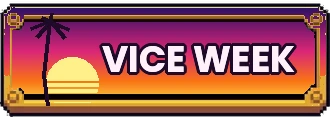
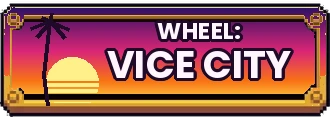
Wheel: Vice City (event renamed) + temp button plate
Claude-Session: https://claude.ai/code/session_01JjVzf52scR2Hecsso6dYfx

Changed region(s): [[0.303, 0.1538, 0.9091, 0.7179]]

diff --git a/wheel.html b/wheel.html
@@ -784,7 +784,7 @@
             <button id="toyBtn" title="Show / hide your toys (bottom-right corner)" style="display:none" class="plate-btn cursor-pointer"><img class="plate-img" data-plate="TOYS" alt="Toys"><span id="toyLbl" class="plate-count" style="display:none"></span></button>
             <button id="partyBtn" title="Party mode" class="plate-btn cursor-pointer"><img class="plate-img" data-plate="PARTY" alt="Party"><img id="partyHatImg" alt="" hidden></button>
             <button id="tsukBtn" class="plate-btn cursor-pointer" title="TsukBlock (ad blocker)" aria-label="TsukBlock"><img class="plate-img" data-plate="TSUK" src="media/plate_tsuk2.webp" alt="TsukBlock"></button>
-            <button id="viceBtn" title="Vice Week" class="plate-btn cursor-pointer" style="display:none"><img class="plate-img" src="media/plate_vice.webp" alt="Vice Week"><span class="plate-tag"></span></button>
+            <button id="viceBtn" title="Wheel: Vice City" class="plate-btn cursor-pointer" style="display:none"><img class="plate-img" src="media/plate_vice.webp" alt="Wheel: Vice City"><span class="plate-tag"></span></button>
             <button id="foreverBtn" title="WoW Forever is out" class="plate-btn cursor-pointer" style="display:none"><img class="plate-img" data-plate="FOREVER" alt="Forever"><span class="plate-tag"></span></button>
         </div>
     </header>
@@ -969,7 +969,7 @@
                 <div class="text-xs font-bold uppercase tracking-wider text-slate-400 mb-2">📰 Patch notes</div>
                 <button id="updateReopen" class="px-3 py-1.5 rounded bg-amber-700 hover:bg-amber-600 text-white text-xs font-bold cursor-pointer">See what's new</button>
                 <a href="./" class="ml-2 text-xs text-amber-300 underline" title="It's all connected"><img src="media/board_icon.png" alt="" style="display:inline-block;height:1.15em;width:auto;vertical-align:-.25em;margin-right:.25em;border-radius:2px">The Board</a>
-                <span id="buildStamp" class="ml-2 text-xs text-slate-500" title="If this is old, press Ctrl+F5">Version: Nov 18, 1:32 PM CT</span>
+                <span id="buildStamp" class="ml-2 text-xs text-slate-500" title="If this is old, press Ctrl+F5">Version: Nov 18, 1:36 PM CT</span>
             </div>
             <div class="mt-5 pt-4 border-t border-slate-800 text-xs font-bold uppercase tracking-wider text-slate-400 mb-2">🔤 Font</div>
             <div id="fontPicks" class="grid grid-cols-2 sm:grid-cols-3 gap-2"><button type="button" class="font-pick" data-font="pixel"><b class="fp-name">Pixel Goblin</b><span class="fp-sample">KEVIN · Spin Again</span><span class="fp-sub">Pixelify Sans + Atkinson Hyperlegible</span></button><button type="button" class="font-pick" data-font="silk"><b class="fp-name">Arcade Caps</b><span class="fp-sample">KEVIN · Spin Again</span><span class="fp-sub">Silkscreen + Nunito Sans</span></button><button type="button" class="font-pick" data-font="pirata"><b class="fp-name">Pirate Gothic</b><span class="fp-sample">KEVIN · Spin Again</span><span class="fp-sub">Pirata One + Barlow</span></button><button type="button" class="font-pick" data-font="germania"><b class="fp-name">Iron Fraktur</b><span class="fp-sample">KEVIN · Spin Again</span><span class="fp-sub">Germania One + Barlow</span></button><button type="button" class="font-pick" data-font="tiny"><b class="fp-name">Tiny Pixel</b><span class="fp-sample">KEVIN · Spin Again</span><span class="fp-sub">Tiny5 + Atkinson Hyperlegible</span></button><button type="button" class="font-pick" data-font="jersey"><b class="fp-name">Arcade Cabinet</b><span class="fp-sample">KEVIN · Spin Again</span><span class="fp-sub">Jersey 15 + Atkinson Hyperlegible</span></button></div>
@@ -4964,9 +4964,9 @@
         { id: 'axacam5',    name: 'Caught on Camera',         desc: 'Catch Axazon hiding in 5 different places.' },
         { id: 'gregpet',    name: 'Heavy Machinery Not Included', desc: 'Win Greg from the claw machine.', secret: true, secretName: true },
         { id: 'cartridge',  name: 'The Collector',            desc: 'Find the one Wheeltari cartridge that actually works, and play it in the VIP room.', secret: true, secretName: true },
-        { id: 'viceweek',   name: 'Welcome to Vice',          desc: 'Go to Vice Week (the new GTA\'s launch week, Nov 19-25).', secret: true },
-        { id: 'vicebusted', name: 'BUSTED',                   desc: 'Hit 5 stars during Vice Week and get caught by ChAoTiC.', secret: true },
-        { id: 'vicewasted', name: 'WASTED',                   desc: 'Get WASTED during Vice Week. It just happens sometimes.', secret: true }
+        { id: 'viceweek',   name: 'Welcome to Vice',          desc: 'Go to Wheel: Vice City (the new GTA\'s launch week, Nov 19-25).', secret: true },
+        { id: 'vicebusted', name: 'BUSTED',                   desc: 'Hit 5 stars during Wheel: Vice City and get caught by ChAoTiC.', secret: true },
+        { id: 'vicewasted', name: 'WASTED',                   desc: 'Get WASTED during Wheel: Vice City. It just happens sometimes.', secret: true }
     ];
     const PURPLE_HEART_SVG = '<svg viewBox="0 0 64 80" width="44" height="55" aria-hidden="true"><path d="M20 0h24v22H20z" fill="#7e22ce"/><path d="M20 0h4v22h-4zM40 0h4v22h-4z" fill="#f5f5f4"/><path d="M28 0h8v22h-8z" fill="#a855f7"/><path d="M32 74 C10 58 4 46 4 36 C4 26 12 20 20 20 C26 20 30 24 32 28 C34 24 38 20 44 20 C52 20 60 26 60 36 C60 46 54 58 32 74Z" fill="#facc15" stroke="#a16207" stroke-width="2"/><path d="M32 68 C14 55 10 45 10 37 C10 30 15 26 21 26 C26 26 29 29 32 33 C35 29 38 26 43 26 C49 26 54 30 54 37 C54 45 50 55 32 68Z" fill="#7e22ce"/><ellipse cx="32" cy="45" rx="7" ry="9" fill="#fde68a" opacity=".9"/></svg>';
     let achQueue = [], achShowing = false;
@@ -6054,7 +6054,7 @@ const PHOTO_ICO_TEXTSIZE = "media/photo_ico_textsize.png?v=ee06b30a";
     (function buildCheatEvents() {   // the newer gags, on demand (nothing here pays out gold)
         const EV = [['🐸 Murloc raid', () => murlocRaid()], ['🏐 Murloc spears Volley', () => murlocSkewer()], ['🧊 Iceberg', () => yachtIceberg(true)], ['🗡 Stray glaive', () => strayGlaive(true)],
             ['🛸 Chicken abduction', () => chickenAbduct(true)], ['🐔 Roadkill', () => chickenRoadkill(true)],
-            ['🦺 OSHA incident', () => oshaEvent()], ['🌵 Cartel abduction', () => cartelAbduction()], ['⏳ WoW Forever', () => toggleForever()], ['🌴 Vice Week', () => toggleVice(true)], ['🚔 Vice: BUSTED', () => viceCard('busted')], ['💀 Vice: WASTED', () => viceCard('wasted')],
+            ['🦺 OSHA incident', () => oshaEvent()], ['🌵 Cartel abduction', () => cartelAbduction()], ['⏳ WoW Forever', () => toggleForever()], ['🌴 Wheel: Vice City', () => toggleVice(true)], ['🚔 Vice: BUSTED', () => viceCard('busted')], ['💀 Vice: WASTED', () => viceCard('wasted')],
             ['🏪 8/11 opening', () => { store.set('painWheel811Welcomed', false); welcome811(); }],
             ['🏷 Emporium opening', () => { store.set('painWheelEmporiumOpen', true); store.set('painWheelEmporiumWelcomed', false); welcomeEmporium(); }],
             ['🎂 Clippy birthday', () => { const d = Date; window.Date = class extends d { constructor(...a) { return a.length ? new d(...a) : new d(new d().getFullYear(), 10, 19, 12); } static now() { return d.now(); } }; store.set('painWheelClippyBday', ''); try { clippyBirthday(); } finally { window.Date = d; } }],
@@ -6479,11 +6479,11 @@ const PHOTO_ICO_TEXTSIZE = "media/photo_ico_textsize.png?v=ee06b30a";
     var VICE_SLICE = [   // neon sunset: dark purple at the hub, hot color at the rim
         [[0, '#1e0b2e'], [0.55, '#9d174d'], [1, '#ec4899']], [[0, '#1e0b2e'], [0.55, '#9a3412'], [1, '#fb923c']], [[0, '#0b1e2e'], [0.55, '#0f766e'], [1, '#2dd4bf']],
         [[0, '#1e0b2e'], [0.55, '#6b21a8'], [1, '#c084fc']], [[0, '#1e0b2e'], [0.55, '#be185d'], [1, '#fda4af']], [[0, '#1e0b2e'], [0.55, '#a16207'], [1, '#facc15']]];
-    const VICE_THEME = { id: 'vice', name: 'Vice Week 🌴', when: () => false, bg: '#14081f', palm: true, sunsetSlices: true, bgSize: 'cover', logo: 'media/vice_logo.webp',   // background: Ada's Vice painting, dimmed so the panels stay readable
+    const VICE_THEME = { id: 'vice', name: 'Wheel: Vice City 🌴', when: () => false, bg: '#14081f', palm: true, sunsetSlices: true, bgSize: 'cover', logo: 'media/vice_logo.webp',   // background: Ada's Vice painting, dimmed so the panels stay readable
         tint: 'linear-gradient(180deg, rgba(12,4,24,.5), rgba(12,4,24,.7)), url(media/vice_bg.webp)',
         pain: '#f472b6', badge: ['🌴 ', ' 🌅'], tagline: 'Neon Decision Engine • Sunset Mode • No Witnesses',
         kevin: [['#831843', '🌴', '🕶', '#fbcfe8'], ['#134e4a', '🌅', '💵', '#99f6e4']], kevinLabel: '🕶 Kevin', drift: ['🌴', '💵', '🕶', '🌅'],
-        ads: ['🌴 VICE WEEK SALE: EVERYTHING IS STOLEN, SO EVERYTHING IS FREE. (NOTHING IS FREE.)', '🕶 SUNGLASSES AT NIGHT: NOW 2 FOR 1 AT THE 8/11',
+        ads: ['🌴 VICE CITY SALE: EVERYTHING IS STOLEN, SO EVERYTHING IS FREE. (NOTHING IS FREE.)', '🕶 SUNGLASSES AT NIGHT: NOW 2 FOR 1 AT THE 8/11',
               '📼 SYNTHWAVE MIXTAPE: 40 MINUTES OF THE SAME SUNSET. 9.99G', '🚗 GOBLIN BODY SHOP: NEW PAINT, NEW PLATES, NO QUESTIONS. QUESTIONS ARE EXTRA.',
               '🌺 FLORAL SHIRTS IN STOCK. CLIPPY BOUGHT THEM ALL. ASK HIM NICELY.'],
         news: ['BREAKING: ENTIRE GUILD CALLS IN SICK. DOCTORS DIAGNOSE NEW GAME FEVER.', 'KEVIN HITS A 5-STAR WANTED LEVEL IN 4 SECONDS. HE WAS STILL IN THE TUTORIAL.',
@@ -10520,7 +10520,7 @@ const PHOTO_ICO_TEXTSIZE = "media/photo_ico_textsize.png?v=ee06b30a";
         id: '2026-11-19-vice', title: 'The yacht got a remodel', date: 'November 6-19, 2026',
         showAfter: Date.parse('2026-11-19T06:00:00Z'),   // midnight Central on Vice Week's first day
         lines: [
-            ['🌴', "Vice Week (Nov 19-25): the new GTA is out, so the top bar has a button for it all week. Press it and the wheel goes neon. Watch your heat. Clippy shares the game's birthday, and he got a new shirt for it. Don't mention the shirt."],
+            ['🌴', "Wheel: Vice City (Nov 19-25): the new GTA is out, so the top bar has a button for it all week. Press it and the wheel goes neon. Watch your heat. Clippy shares the game's birthday, and he got a new shirt for it. Don't mention the shirt."],
             ['🛥', "The yacht got a full remodel (art by Ada): a new trophy case, a real VIP door, and a porthole with a view. The view changes. Keep investigating."],
             ['🐟', "Gary has a plaque now. If your yacht is new, that wall is empty. Somebody at the flea market might be able to help with that."],
             ['❄', "There's a snow globe case on the yacht. It's mostly empty. Somebody, somewhere, is selling them."],
@@ -11439,15 +11439,15 @@ const PHOTO_ICO_TEXTSIZE = "media/photo_ico_textsize.png?v=ee06b30a";
     setInterval(() => { if (viceHeat > 0 && !document.hidden && !isSpinning) { viceHeat--; renderHeat(); } }, 90000);   // cools off one star every 90 seconds
     function toggleVice(force) {
         const on = !document.body.classList.contains('vice-city');
-        if (on && !force && !isViceWeek()) { funEvent("🌴 Vice Week is Nov 19-25. The sunset is closed until then.", 4000); return; }
-        if (on && document.body.classList.contains('ghost-town')) { funEvent("🌵 Everybody is in Forever right now. Vice Week can wait.", 4000); return; }
+        if (on && !force && !isViceWeek()) { funEvent("🌴 Wheel: Vice City runs Nov 19-25. The sunset is closed until then.", 4000); return; }
+        if (on && document.body.classList.contains('ghost-town')) { funEvent("🌵 Everybody is in Forever right now. Vice City can wait.", 4000); return; }
         document.body.classList.toggle('vice-city', on); store.set('painWheelVice', on); applyTheme();
         if (!on) { viceHeat = 0; renderHeat(); }
         const vb = $('viceBtn'); if (vb) { vb.classList.toggle('plate-on', on); vb.querySelector('.plate-tag').textContent = on ? 'leave?' : 'this week!'; vb.blur(); }
         if (on) {
             unlock('viceweek');
-            funEvent('🌴 WELCOME TO VICE WEEK. The whole guild is playing the new GTA. Spins raise your heat. Nobody saw nothin\'.', 5500);
-            chatBurst(['VICE WEEK', 'GTA IS OUT', 'raid is cancelled', 'sunset pog', '🌴🌴🌴', 'here we go'], 6, 2500);
+            funEvent('🌴 WELCOME TO WHEEL: VICE CITY. The whole guild is playing the new GTA. Spins raise your heat. Nobody saw nothin\'.', 5500);
+            chatBurst(['VICE CITY', 'GTA IS OUT', 'raid is cancelled', 'sunset pog', '🌴🌴🌴', 'here we go'], 6, 2500);
             setTimeout(() => viceTalk("Ay. You like the shirt? Me and the new game, we share a birthday. Thirty years old. Show some respect."), 3000);
         } else funEvent('🌅 You left Vice. The sunset will be here all week. It never sets. That is kind of the whole thing.', 4000);
     }
@@ -11468,7 +11468,7 @@ const PHOTO_ICO_TEXTSIZE = "media/photo_ico_textsize.png?v=ee06b30a";
             const week = isViceWeek(), inside = document.body.classList.contains('vice-city');
             if (vb) vb.style.display = (week || inside) && !EMBED_SHOP ? '' : 'none';
             if (tag && !inside) tag.textContent = 'this week!';
-            if (inside && !week && !store.get('painWheelViceTest', false)) { toggleVice(); funEvent('🌅 Vice Week is over. Everybody came back. Kevin is still wanted in three states.', 5000); }
+            if (inside && !week && !store.get('painWheelViceTest', false)) { toggleVice(); funEvent('🌅 Wheel: Vice City is over. Everybody came back. Kevin is still wanted in three states.', 5000); }
         };
         setTimeout(() => { if (!EMBED_SHOP && isViceWeek() && store.get('painWheelVice', false) && !document.body.classList.contains('vice-city') && !document.body.classList.contains('ghost-town')) { document.body.classList.add('vice-city'); applyTheme(); const vb2 = $('viceBtn'); if (vb2) { vb2.classList.add('plate-on'); vb2.querySelector('.plate-tag').textContent = 'leave?'; } } sync(); }, 3600);   // stayed in last time: still in
         setInterval(sync, 60000);
@@ -11839,7 +11839,7 @@ const PHOTO_ICO_TEXTSIZE = "media/photo_ico_textsize.png?v=ee06b30a";
         el.innerHTML = `<img id="heatSiren" src="${PHOTO_SIREN_1}" alt="" style="height:22px;width:auto;vertical-align:middle;margin-right:3px;image-rendering:pixelated">` + '<span class="hl">HEAT</span>' + [0, 1, 2, 3, 4].map(i => `<span class="st${i < stars ? ' on' : ''}">${star(i, i < stars)}</span>`).join('');
         el.title = stars >= 5 ? `WANTED. ${bac} drinks in. Any drinking slice now and ChAoTiC might pull you over (RUI fine: 10% of everything you own). You sober up one drink every 5 minutes.`
             : `Heat: ${bac} drink${bac === 1 ? '' : 's'}. At 5 stars ChAoTiC starts looking for you. You sober up one drink every 5 minutes.`;
-        if (vh > bac) el.title = vh >= 5 ? 'WANTED (Vice Week). ChAoTiC is coming. Every spin is a chance to get BUSTED. Just for fun: no fines.' : `Vice Week heat: ${vh} star${vh === 1 ? '' : 's'}. Spins raise it, it cools off over time. At 5 stars ChAoTiC comes for you.`;
+        if (vh > bac) el.title = vh >= 5 ? 'WANTED (Vice City). ChAoTiC is coming. Every spin is a chance to get BUSTED. Just for fun: no fines.' : `Vice City heat: ${vh} star${vh === 1 ? '' : 's'}. Spins raise it, it cools off over time. At 5 stars ChAoTiC comes for you.`;
         el.setAttribute('aria-label', `Heat ${stars} of 5 stars`);
     }
     setTimeout(renderHeat, 0);
